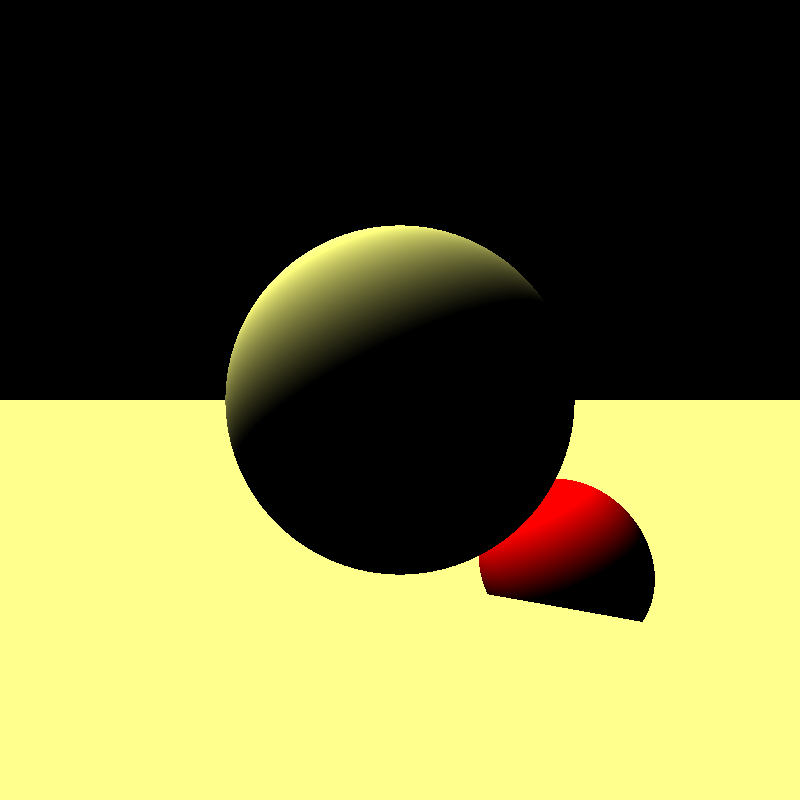
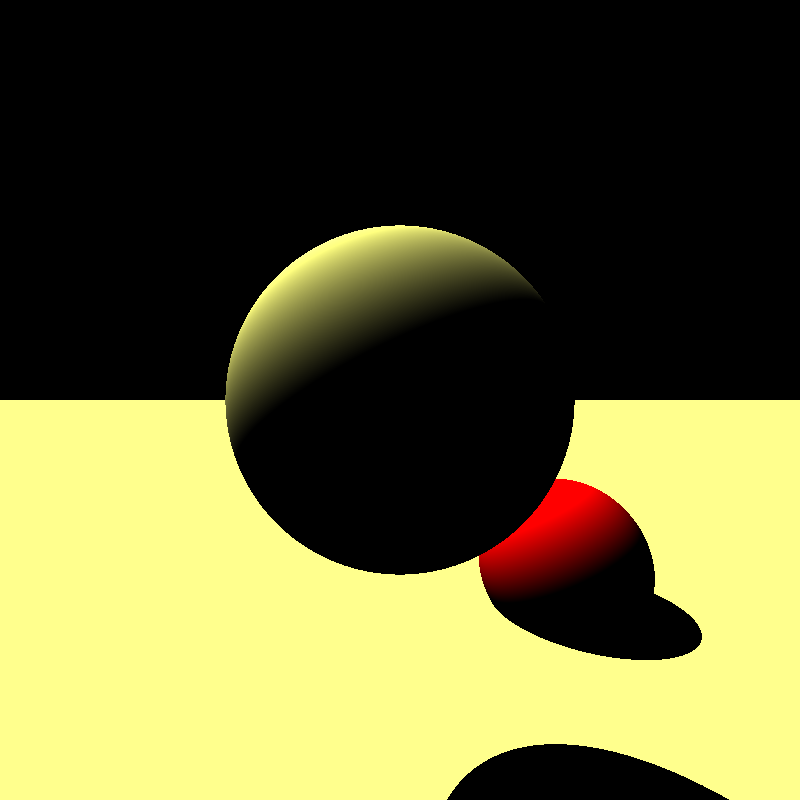
andan las sombras

Changed region(s): [[0.5625, 0.9062, 0.9062, 1.0], [0.5938, 0.75, 0.875, 0.8438]]

diff --git a/src/objects.rs b/src/objects.rs
@@ -4,8 +4,6 @@ use crate::maths::{
 };
 use crate::Scene;
 use crate::color::Color;
-use image::{Rgba,Pixel};
-
 
 #[derive(Debug,Clone)]
 pub struct Ray{
@@ -47,44 +45,6 @@ impl Ray{
 }
 
 
-#[derive(Debug)]
-pub struct Intersection{
-    color_at_intersection: Color,
-    reflected_ray: Ray,
-    alpha_channel: u8,
-    distance_to_intersection: f64,
-}
-impl Intersection{
-    #[inline]
-    pub fn rgba(&self)->Rgba<u8>{
-        Rgba::from_channels(self.color_at_intersection.to_r(),self.color_at_intersection.to_g(),self.color_at_intersection.to_b(),self.alpha_channel)
-    }
-    #[inline]
-    pub fn new_values(color_at_intersection: Color,reflected_ray: Ray,alpha_channel: u8,distance_to_intersection:f64)->Self{
-        Intersection{
-            color_at_intersection,
-            reflected_ray,
-            alpha_channel,
-            distance_to_intersection,
-        }
-    }
-    #[inline]
-    pub fn color(&self)->&Color{
-        &self.color_at_intersection
-    }
-    #[inline]
-    pub fn distance(&self)->f64{
-        self.distance_to_intersection
-    }
-    #[inline]
-    pub fn reflexion(&self)->&Ray{
-        &self.reflected_ray
-    }
-    #[inline]
-    pub fn alpha_channel(&self)->u8{
-        self.alpha_channel
-    }
-}
 #[derive(Debug,Clone)]
 pub struct DirectionalLight{
     pub color: Color,
@@ -109,18 +69,24 @@ impl DirectionalLight{
 }
 
 
-pub trait SceneObject{
+pub trait  SceneObject{
     ///Returns the wrapped intersection if the ray intersects the object
-    fn intersects(&self,ray: &Ray,scene: &Scene)->Option<Intersection>;
+    fn intersects(&self,ray: &Ray)->bool;
+    ///If the intersection point does not exists, it might be undefined behavior
+    fn intersection_point(&self,ray:&Ray)->Option<Point3D>;
     fn surface_normal(&self,hit_point: &Point3D)->Vector3D;
     fn color_at_intersection(&self,hit_point: &Point3D,scene: &Scene)->Color{
-        let shadow_ray = Ray::new(hit_point.clone(),scene.light_sources.direction.clone());
+        // CALCULO DE SOMBRAS
+        //Lo que se le suma al punto evita el shadow acne sobre los planos
+        let shadow_ray = Ray::new(hit_point.clone() + (self.surface_normal(&hit_point)*scene.shadow_bias).into_point(),-1.0 * scene.light_sources.direction.clone());
         let light_intensity;
         if scene.object_between(&shadow_ray){
             light_intensity = 0.0; 
         }else{
             light_intensity = scene.light_sources.intensity;
         }
+        // FIN DE CALCULO DE SOMBRAS
+        
         let light = scene.light_sources.clone();
         let light_power = self.surface_normal(hit_point).dot_product(&(-1.0*light.direction.clone().normalize())).max(0.0) * light_intensity;
         let light_reflected = self.albedoo() / std::f64::consts::PI;
@@ -141,13 +107,10 @@ pub mod objects{
             },
         },
         color::Color,
-        Scene,
     };
     use super::{
         SceneObject,
         Ray,
-        Intersection,
-        DirectionalLight,
     };
 
 
@@ -158,28 +121,28 @@ pub mod objects{
         albedoo: f64,
     }
     impl SceneObject for Sphere{
-        fn intersects(&self,ray: &Ray,scene: &Scene)->Option<Intersection>{
-            let alpha = 255;
-            let light = scene;
-            let vec_posicion = Vector3D::new_from_point(self.center.clone());
-            let vec_posicion_module = vec_posicion.module();
-            let cateto = f64::sin(vec_posicion.angle_between(&ray.direccion))*vec_posicion_module;
-            if self.radio >= cateto{
+        fn intersects(&self,ray: &Ray)->bool{
+            //Como uso trait objects, esta fue la mejor solucion que encontré para evitar que marque sombra en sus propias intersecciones
+            if ((ray.punto.clone()-self.center.clone()).module() - self.radio).abs() < 1e-6{
+                return false;
+            }
+            let aux = ray.direccion.clone().normalize().dot_product(&(ray.punto.clone() - self.center.clone()));
+            let discriminante = aux.powi(2)-((ray.punto.clone()-self.center.clone()).module().powi(2)-self.radio.powi(2));
+            if discriminante < 0.0 {
+                false
+            }else{
+                true
+            }
+        }
+        fn intersection_point(&self,ray: &Ray)->Option<Point3D>{
                 let aux = ray.direccion.clone().normalize().dot_product(&(ray.punto.clone() - self.center.clone()));
                 let lambda1 = -aux+(aux.powi(2)-((ray.punto.clone()-self.center.clone()).module().powi(2)-self.radio.powi(2))).sqrt();
                 let lambda2 = -aux-(aux.powi(2)-((ray.punto.clone()-self.center.clone()).module().powi(2)-self.radio.powi(2))).sqrt();
                 if lambda1>lambda2{
-                    Some(Intersection::new_values(self.color_at_intersection(
-                        &(lambda2 * ray.direccion.clone() + ray.punto.clone().into_vector()).into_point(), &light),
-                        Ray::new_null(), alpha,f64::sqrt(vec_posicion_module.powi(2)+cateto.powi(2))))
+                    Some((lambda2 * ray.direccion.clone() + ray.punto.clone().into_vector()).into_point())
                 }else{
-                    Some(Intersection::new_values(self.color_at_intersection(
-                        &(lambda1 * ray.direccion.clone() + ray.punto.clone().into_vector()).into_point(), &light),
-                        Ray::new_null(), alpha,f64::sqrt(vec_posicion_module.powi(2)+cateto.powi(2))))
+                    Some((lambda1 * ray.direccion.clone() + ray.punto.clone().into_vector()).into_point())
                 }
-            }else{
-                None
-            }
         }
         fn surface_normal(&self,hit_point: &Point3D)->Vector3D{
             hit_point.substract(&self.center).normalize()
@@ -227,19 +190,22 @@ pub mod objects{
         }
     }
     impl SceneObject for Plane{
-        fn intersects(&self,ray: &Ray,scene: &Scene)->Option<Intersection>{
+        fn intersects(&self,ray: &Ray)->bool{
             if ray.direccion.dot_product(&self.normal).abs() < 1e-6{ //es epsilon
-                None
+                false
             }else{
                 let lambda = self.normal.dot_product(&(self.punto.clone()-ray.punto.clone()))
                 /self.normal.dot_product(&ray.direccion);
-                if lambda < 0.0{
-                    return None
+                if lambda <= 0.0{
+                    return false
                 }
-                let interseccion_punto = (lambda * ray.direccion.clone() + ray.punto.clone().into_vector())-ray.punto.clone().into_vector();
-                let color_at_intersection = self.color_at_intersection(&interseccion_punto.into_point(), &scene);
-                Some(Intersection::new_values(color_at_intersection, Ray::new_null(), 255,interseccion_punto.module()))
+                true
             }
+        }
+        fn intersection_point(&self,ray: &Ray)->Option<Point3D>{
+            let lambda = self.normal.dot_product(&(self.punto.clone()-ray.punto.clone()))
+                /self.normal.dot_product(&ray.direccion);
+            Some((ray.direccion.clone().into_point() * lambda + ray.punto.clone())-ray.punto.clone())
         }
         fn surface_normal(&self,_: &Point3D)->Vector3D{
             self.normal.clone()

diff --git a/src/lib.rs b/src/lib.rs
@@ -3,6 +3,7 @@
 pub mod maths;
 pub mod objects;
 pub mod color;
+use maths::vector3::Vector3;
 use objects::Ray;
 use image::{DynamicImage, GenericImage};
 pub struct Scene{
@@ -12,6 +13,7 @@ pub struct Scene{
     pub objects_list: Vec<Box<dyn objects::SceneObject>>,
     pub rendering_max_distance: usize,
     image_rendered: Option<DynamicImage>,
+    shadow_bias: f64,
 }
 impl Scene{
     ///Creates a new scene with the source of light in the sky, above the camera. By default, it's rendering in a low definition
@@ -24,6 +26,7 @@ impl Scene{
             objects_list: Vec::new(),
             rendering_max_distance: 100,
             image_rendered: None,
+            shadow_bias: 1e-13,
         }
     }
     pub fn render(&mut self){
@@ -33,11 +36,12 @@ impl Scene{
                 let rayo_actual = Ray::new_camera_ray(x,y,&self);
                 let mut minimum_distance_to_intersection = (0.0,true);
                 for objeto in &self.objects_list{
-                    let interseccion = objeto.intersects(&rayo_actual,&self);
-                    if let Some(interseccion) = interseccion{
-                        if interseccion.distance()<minimum_distance_to_intersection.0 || minimum_distance_to_intersection.1 {
-                            imagen.put_pixel(x, y, interseccion.rgba());
-                            minimum_distance_to_intersection.0 = interseccion.distance();
+                    if objeto.intersects(&rayo_actual){
+                        let hit_point = objeto.intersection_point(&rayo_actual).unwrap();
+                        let hit_point_module = hit_point.module();
+                        if hit_point_module<minimum_distance_to_intersection.0 || minimum_distance_to_intersection.1 {
+                            imagen.put_pixel(x, y, objeto.color_at_intersection(&hit_point,&self).to_rgba(255));
+                            minimum_distance_to_intersection.0 = hit_point_module;
                             minimum_distance_to_intersection.1 = false;
                         }
                         
@@ -49,11 +53,8 @@ impl Scene{
     }
     fn object_between(&self,ray: &Ray)->bool{
         for objeto in &self.objects_list{
-            let interseccion = objeto.intersects(&ray,&self);
-            if interseccion.is_none(){
-                 continue;
-            }else{
-                return true;
+            if objeto.intersects(&ray) {
+                 return true;
             }
         }
         false

diff --git a/src/maths/point.rs b/src/maths/point.rs
@@ -44,3 +44,21 @@ impl Vector3 for Point3D{
         self.z
     }
 }
+impl ops::Mul<f64> for Point3D{
+    type Output = Point3D;
+    fn mul(mut self,other: f64)->Self{
+        self.x *= other;
+        self.y *= other;
+        self.z *= other;
+        self  
+    }
+}
+impl ops::Add for Point3D{
+    type Output = Point3D;
+    fn add(mut self,other: Point3D)->Self{
+        self.x += other.x;
+        self.y += other.y;
+        self.z += other.z;
+        self
+    }
+}

diff --git a/src/color.rs b/src/color.rs
@@ -1,4 +1,5 @@
 use std::ops;
+use image::{Rgba,Pixel};
 #[derive(Clone,Debug)]
 pub struct Color{
     pub red: f64, //Quizás no sea necesario que sea un f32, evaluar después
@@ -40,6 +41,10 @@ impl Color{
             green: 1.0,
             blue: 1.0,
         }
+    }
+    pub fn to_rgba(self,a:u8)->Rgba<u8>{
+        let canales = self.to_rgb();
+        Rgba::from_channels(canales.0,canales.1,canales.2,a)
     }
 }
 impl ops::Mul for Color{
